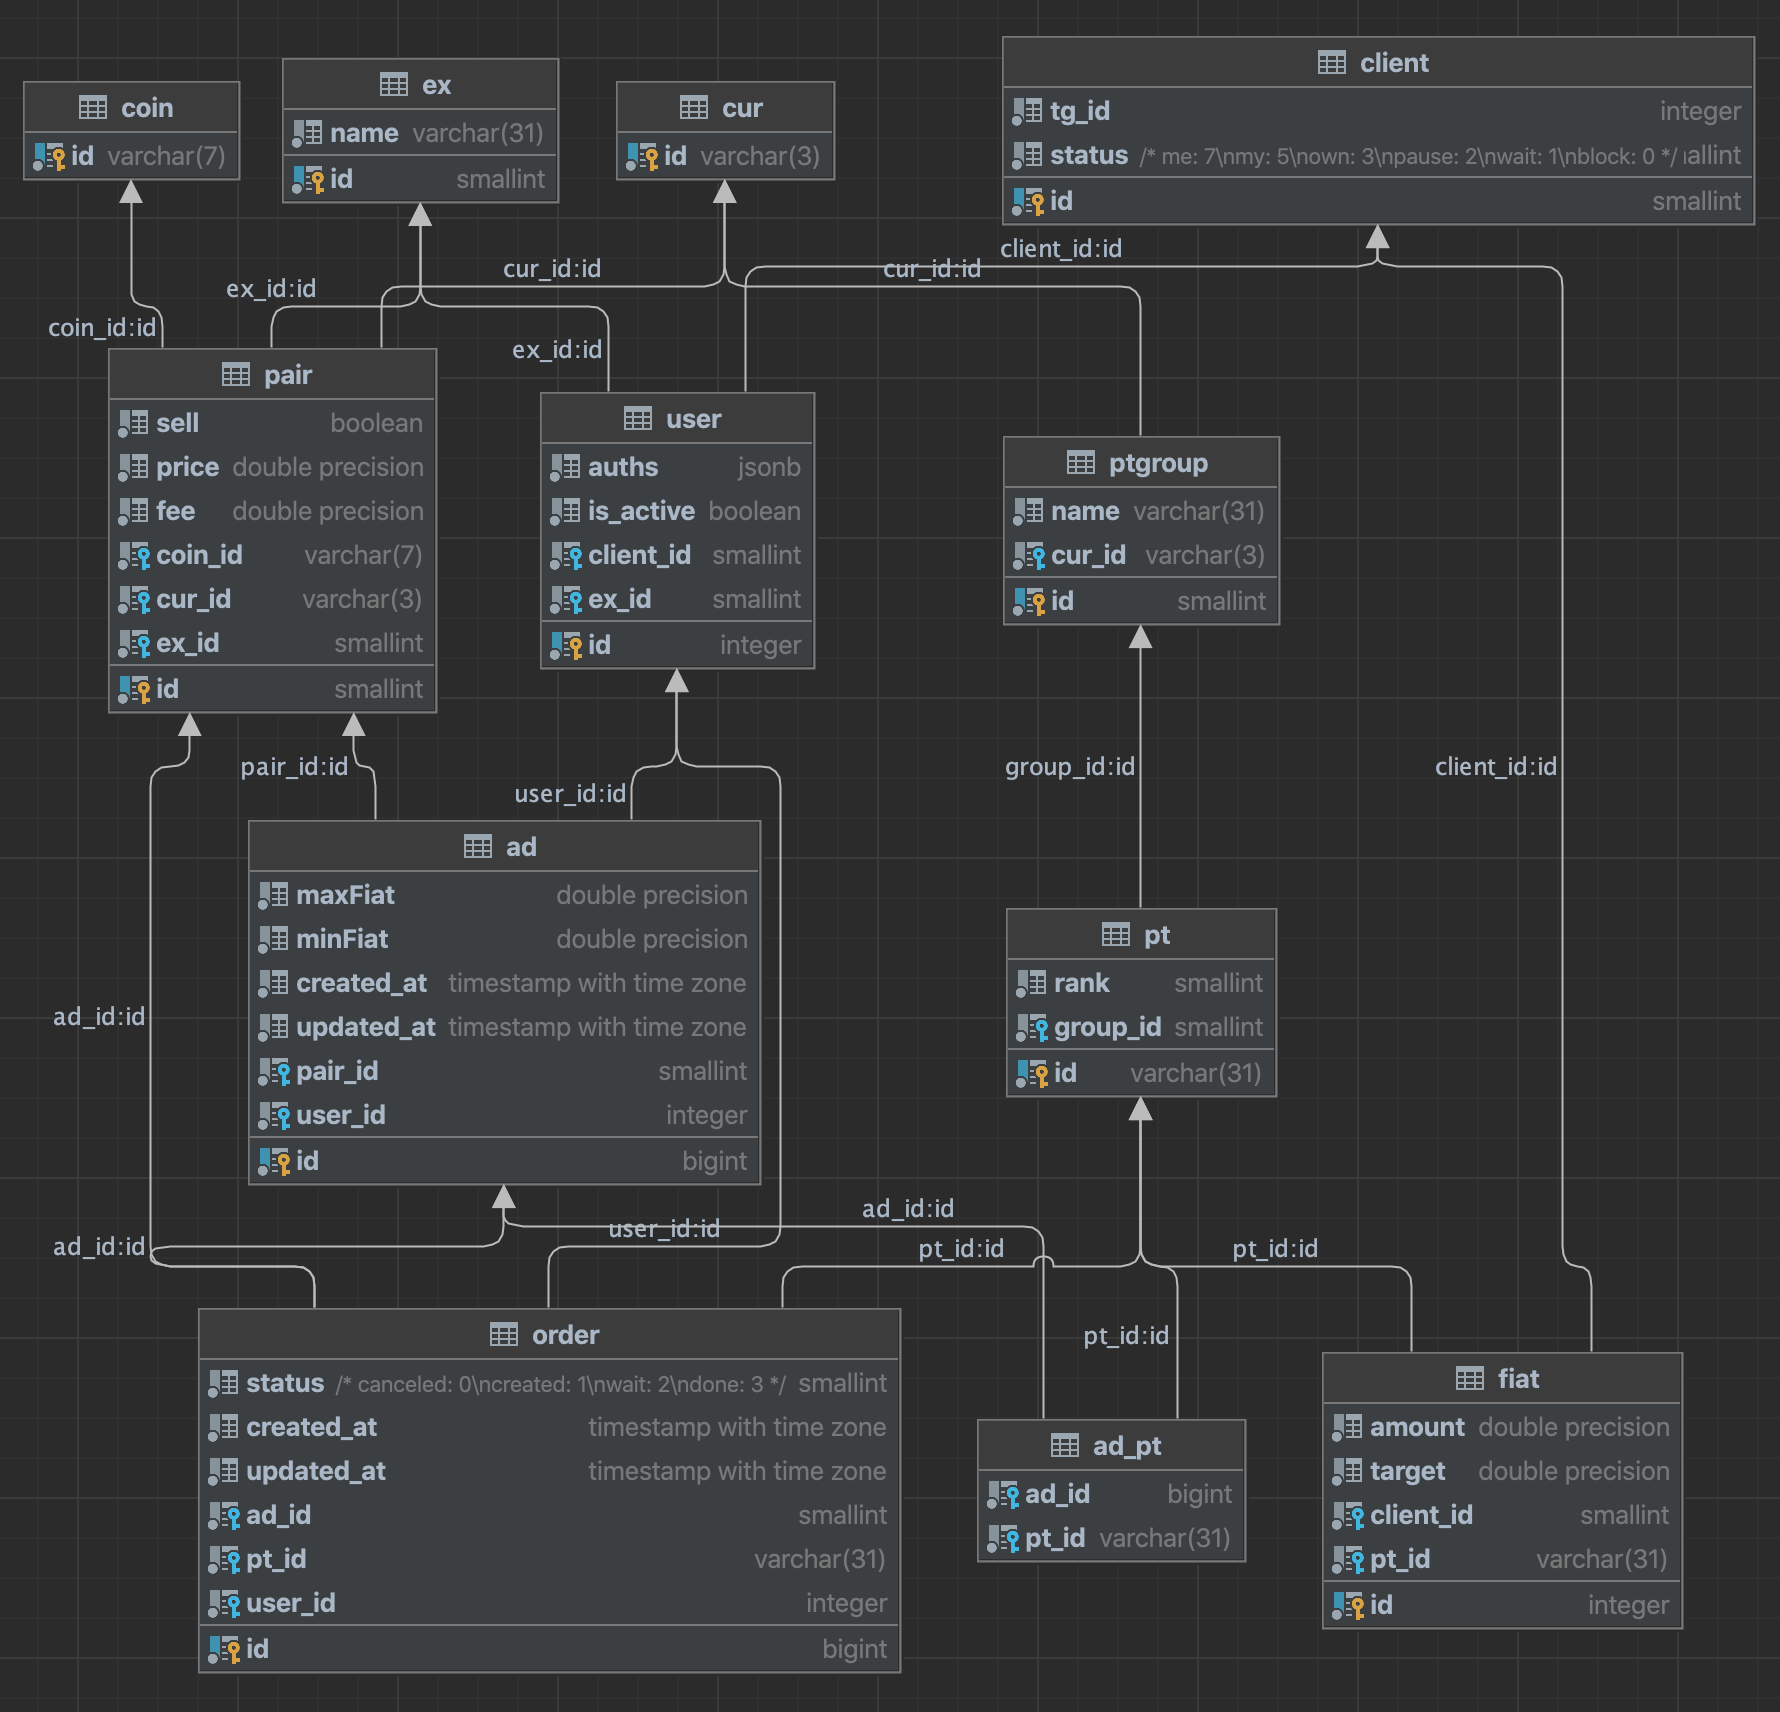
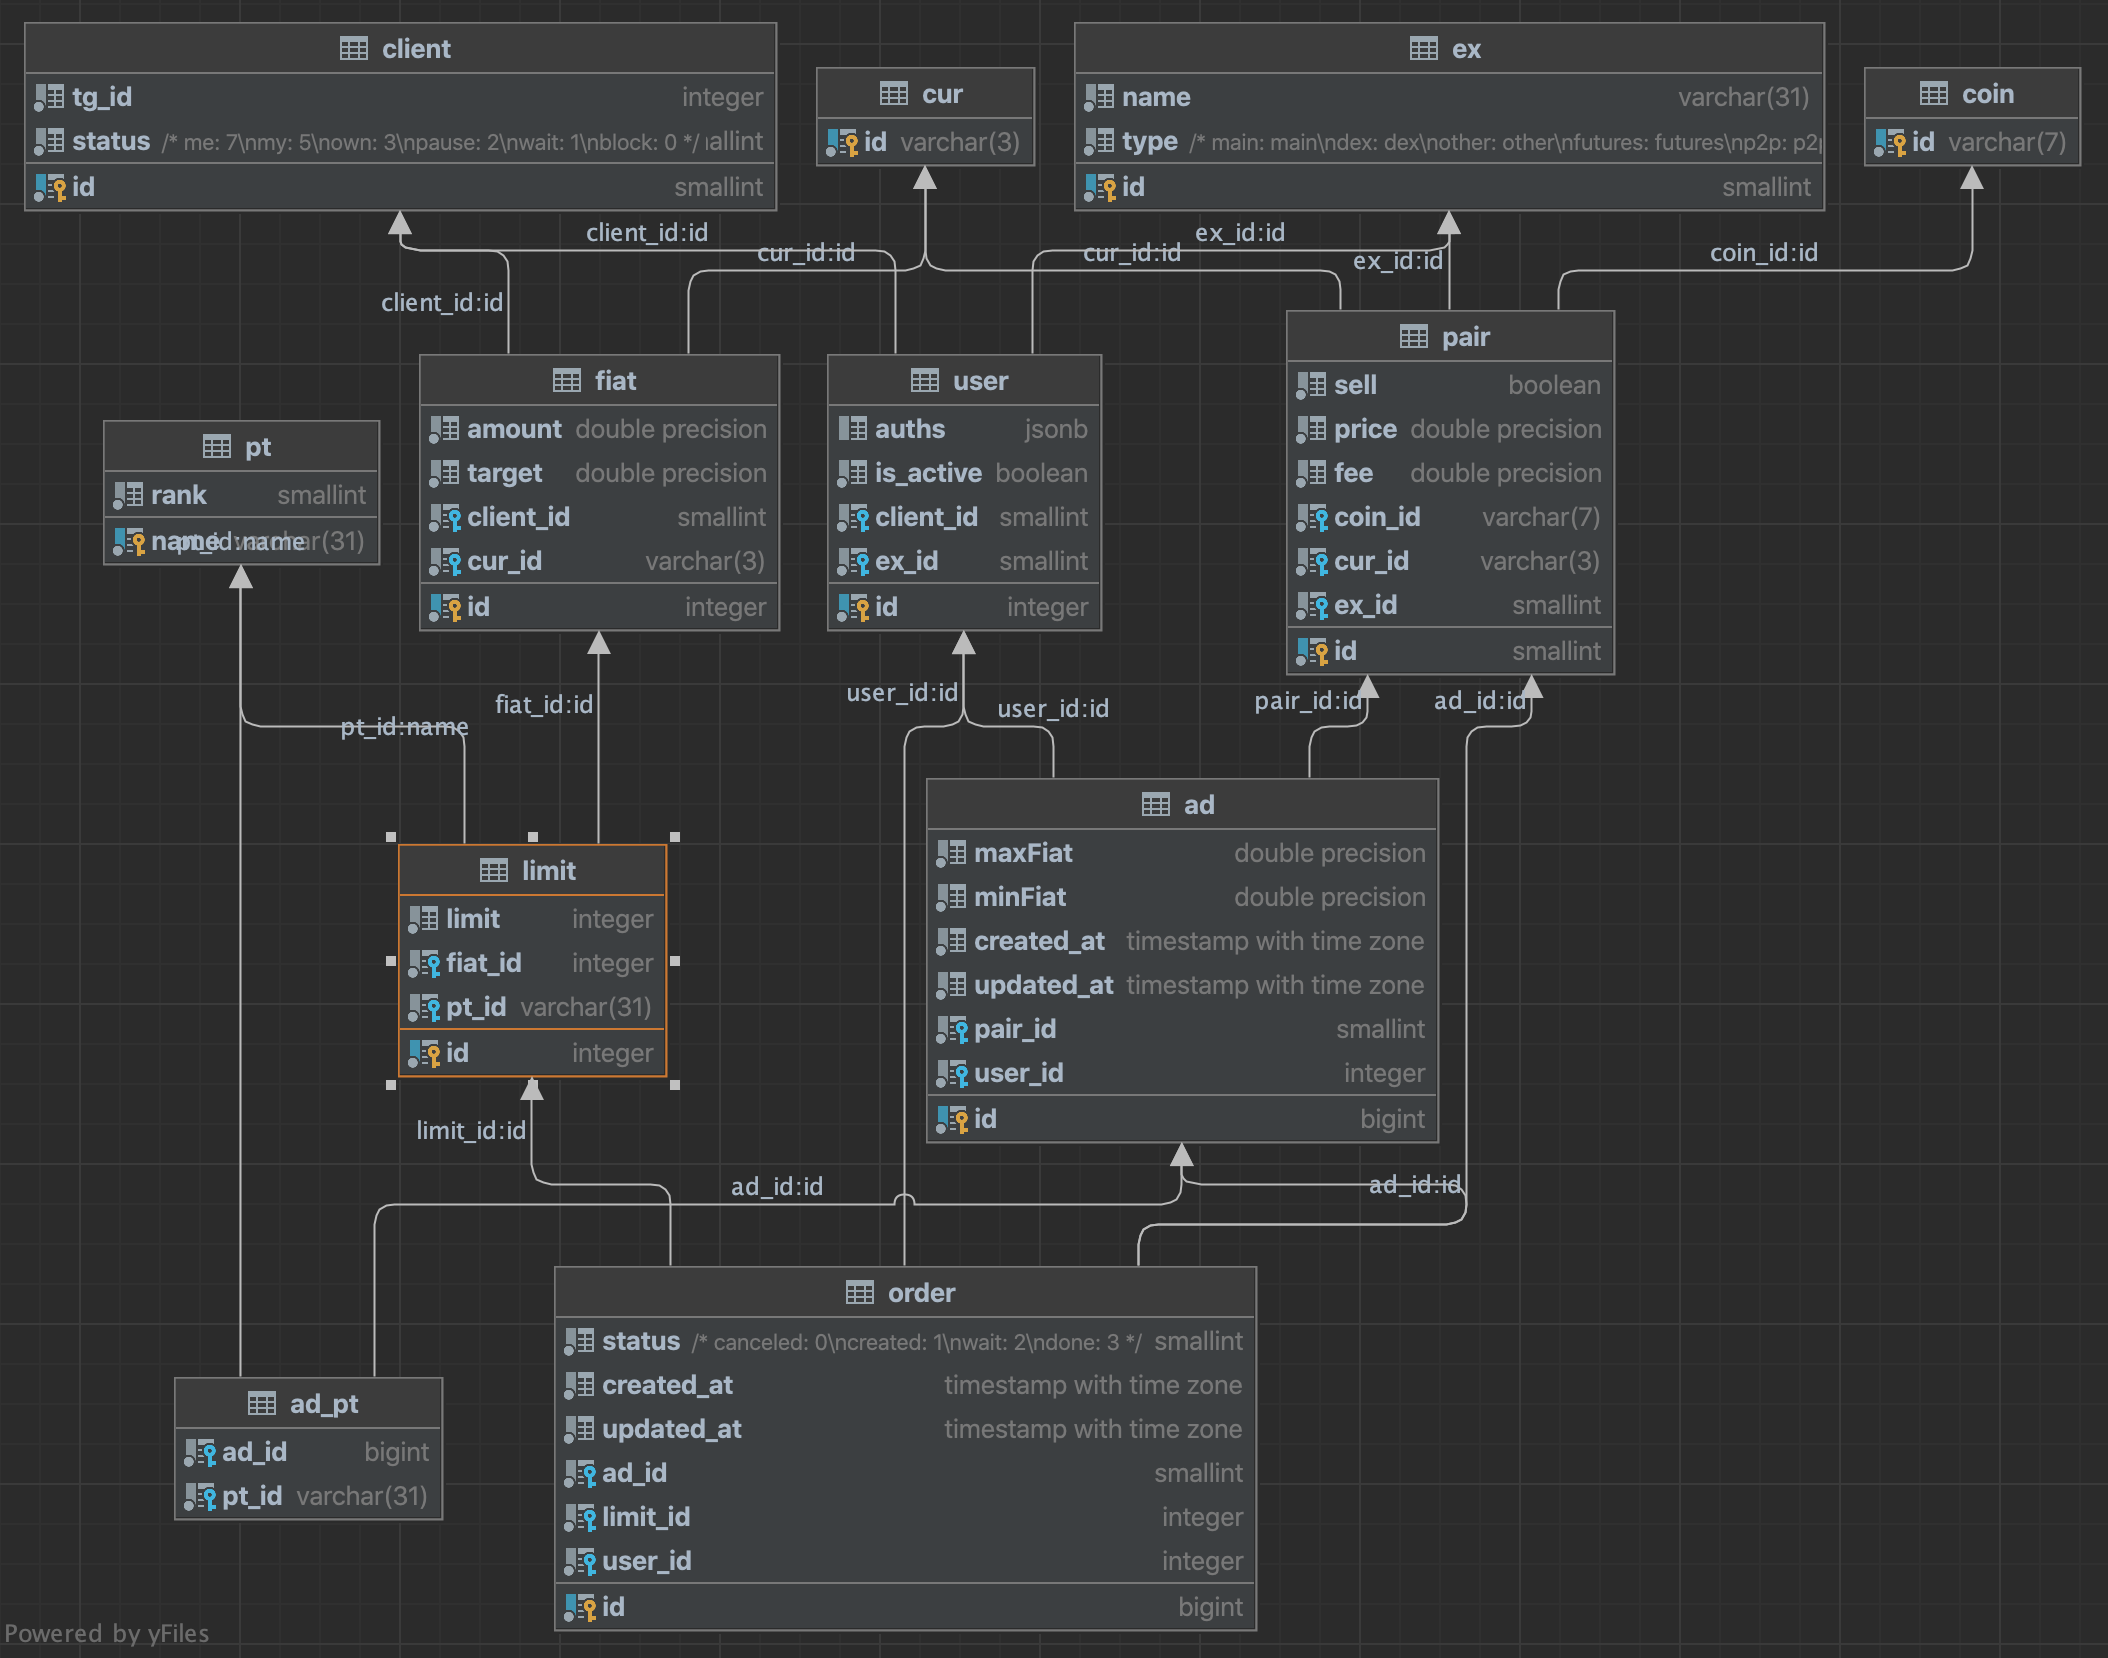
migrates

diff --git a/models.py b/models.py
@@ -1,4 +1,4 @@
-from enum import IntEnum  # , Enum
+from enum import IntEnum, Enum
 
 from tortoise import Model, fields
 
@@ -19,6 +19,14 @@ class OrderStatus(IntEnum):
     done = 3
 
 
+class ExType(Enum):
+    main = "main"
+    dex = "dex"
+    other = "other"
+    futures = "futures"
+    p2p = "p2p"
+
+
 class Cur(Model):
     id: str = fields.CharField(3, pk=True)
 
@@ -30,6 +38,7 @@ class Coin(Model):
 class Ex(Model):
     id: int = fields.SmallIntField(pk=True)
     name: str = fields.CharField(31)
+    type: ExType = fields.CharEnumField(ExType)
 
 
 class Pair(Model):
@@ -54,9 +63,9 @@ class Client(Model):
 class User(Model):
     id: int = fields.IntField(pk=True)
     ex: fields.ForeignKeyRelation[Ex] = fields.ForeignKeyField("models.Ex", related_name="users")
-    auths: {} = fields.JSONField()
+    auths: {} = fields.JSONField(null=True)  # todo: think about it - where move this attr in
     client: fields.ForeignKeyNullableRelation[Client] = fields.ForeignKeyField("models.Client", related_name="users")
-    is_active: bool = fields.BooleanField()
+    is_active: bool = fields.BooleanField(default=True)
 
 
 class Ad(Model):
@@ -70,31 +79,32 @@ class Ad(Model):
     updated_at = fields.DatetimeField(auto_now=True)
 
 
-class PtGroup(Model):
-    id: int = fields.SmallIntField(pk=True)
-    name: str = fields.CharField(31)
-    cur: fields.ForeignKeyRelation[Cur] = fields.ForeignKeyField("models.Cur", related_name="pt_groups")
-
-
 class Pt(Model):
-    id: str = fields.CharField(31, pk=True)
-    group: fields.ForeignKeyRelation[PtGroup] = fields.ForeignKeyField("models.PtGroup", related_name="pts")
+    name: str = fields.CharField(31, pk=True)
     rank = fields.SmallIntField()
     ads: fields.ManyToManyRelation[Ad]
+    fiats: fields.ManyToManyRelation["Fiat"]
 
 
 class Fiat(Model):
     id: int = fields.IntField(pk=True)
+    pt: fields.ManyToManyRelation[Pt] = fields.ManyToManyField("models.Pt", "limit", related_name="fiats")
+    cur: fields.ForeignKeyRelation[Cur] = fields.ForeignKeyField("models.Cur", related_name="pts")
     client: fields.ForeignKeyRelation[Client] = fields.ForeignKeyField("models.Client", "fiats")
-    pt: fields.ForeignKeyRelation[Pt] = fields.ForeignKeyField("models.Pt", "fiats")
     amount: float = fields.FloatField()
     target: float = fields.FloatField()
+
+
+class Limit(Model):
+    fiat: fields.ForeignKeyRelation[Fiat] = fields.ForeignKeyField("models.Fiat", related_name="limits")
+    pt: fields.ForeignKeyRelation[Pt] = fields.ForeignKeyField("models.Pt", related_name="limits")
+    limit: int = fields.IntField()
 
 
 class Order(Model):
     id: int = fields.BigIntField(pk=True)
     ad: fields.ForeignKeyRelation[Ad] = fields.ForeignKeyField("models.Pair", related_name="orders")
-    pt: fields.ForeignKeyRelation[Pt] = fields.ForeignKeyField("models.Pt", related_name="orders")
+    limit: fields.ForeignKeyRelation[Limit] = fields.ForeignKeyField("models.Limit", related_name="orders")
     user: fields.ForeignKeyRelation = fields.ForeignKeyField("models.User", "orders")
     status: OrderStatus = fields.IntEnumField(OrderStatus)
     created_at = fields.DatetimeField(auto_now_add=True)

diff --git a/seed.py b/seed.py
@@ -1,0 +1,86 @@
+from tortoise import run_async, Tortoise
+
+from loader import orm_params
+from models import Pt, Cur, Coin, Ex, ExType
+
+
+async def seed():
+    await Tortoise.init(**orm_params)
+    await Tortoise.generate_schemas()
+
+    #
+    await Coin.create(id="USDT")
+    await Coin.create(id="BTC")
+    await Coin.create(id="ETH")
+    await Coin.create(id="BNB")
+    await Coin.create(id="BUSD")
+    # await Coin.create(id="RUB")
+
+    #
+    await Ex.create(name="bc2c", type=ExType.p2p)
+
+    ##########
+
+    r = await Cur.create(id="RUB")
+    u = await Cur.create(id="USD")
+    e = await Cur.create(id="EUR")
+    t = await Cur.create(id="TRY")
+
+    #
+    await Pt.create(name="CashInPerson", rank=0)  # blocked in Russia
+    await Pt.create(name="BANK", rank=1)  # blocked in Russia
+    #
+    await Pt.create(name="Advcash", rank=-2)
+    await Pt.create(name="Payeer", rank=-3)
+    #
+    # # # Russia
+    await Pt.create(name="TinkoffNew", rank=4)
+    await Pt.create(name="RosBankNew", rank=3)
+    await Pt.create(name="PostBankRussia", rank=2)
+    await Pt.create(name="UralsibBank", rank=2)
+    await Pt.create(name="RaiffeisenBankRussia", rank=2)
+    await Pt.create(name="BCSBank", rank=2)
+    await Pt.create(name="HomeCreditBank", rank=2)
+    await Pt.create(name="VostochnyBank", rank=2)
+    await Pt.create(name="RussianStandardBank", rank=2)
+    await Pt.create(name="ABank", rank=2)  # blocked in Russia
+    await Pt.create(name="MTSBank", rank=2)
+    await Pt.create(name="SpecificBank", rank=2)
+    #
+    await Pt.create(name="YandexMoneyNew", rank=5)
+    await Pt.create(name="QIWI", rank=6)
+    #
+    await Pt.create(name="RUBfiatbalance", rank=-1)
+    #
+    await Pt.create(name="BanktransferTurkey", rank=3)
+    await Pt.create(name="alBaraka", rank=3)
+    await Pt.create(name="Akbank", rank=3)
+    await Pt.create(name="DenizBank", rank=4)
+    await Pt.create(name="Garanti", rank=3)
+    await Pt.create(name="HALKBANK", rank=3)
+    await Pt.create(name="KuveytTurk", rank=3)
+    await Pt.create(name="VakifBank", rank=3)
+    await Pt.create(name="Ziraat", rank=3)
+    #
+    await Pt.create(name="KoronaPay", rank=2)  # blocked in Russia
+
+    # todo: Fiats upsert..
+    # # And then Limits seed
+    # rus_banks = await PtGroup(name="rus banks", cur=r)
+    # ym = await PtGroup(name="ym", cur=r)
+    # qiwi = await PtGroup(name="qiwi", cur=r)
+    # b_fiat_rub = await PtGroup(name="b_fiat_rub", cur=r)
+    # adv_rub = await PtGroup(name="adv_rub", cur=r)
+    # adv_usd = await PtGroup(name="adv_usd", cur=u)
+    # adv_eur = await PtGroup(name="adv_eur", cur=e)
+    # payer_rub = await PtGroup(name="payer_rub", cur=r)
+    # payer_usd = await PtGroup(name="payer_usd", cur=u)
+    # payer_eur = await PtGroup(name="payer_eur", cur=e)
+    # korona_rub = await PtGroup(name="korona_rub", cur=r)
+    # korona_usd = await PtGroup(name="korona_usd", cur=u)
+    # korona_eur = await PtGroup(name="korona_eur", cur=e)
+    # korona_try = await PtGroup(name="korona_try", cur=t)
+    # cash_bank = await PtGroup(name="cash_bank", cur=t)
+
+if __name__ == "__main__":
+    run_async(seed())

diff --git a/binance_client.py b/binance_client.py
@@ -1,0 +1,69 @@
+import aiohttp
+
+gap = 0.01
+URL_SRC = 'https://c2c.binance.com/bapi/c2c/v2/friendly/c2c/adv/search'
+prgrs = '/', '-', '\\', '|'
+
+bnks = 'banks', 'ym', 'qiwi'
+
+
+async def breq(path: str, user: dict = None, data=None, is_post=True):
+    headers = {
+        'User-Agent': 'Mozilla/5.0 (Macintosh; Intel Mac OS X 10_15_7) AppleWebKit/537.36 (KHTML, like Gecko) Chrome/103.0.5060.134 Safari/537.36',
+        'Content-Type': 'application/json',
+        'clienttype': 'web',
+    }
+    if user:
+        headers.update({
+            'csrftoken': user['tok'],
+            'cookie': f'p20t=web.{user["key"]}.{user["cook"]}',
+        })
+    async with aiohttp.ClientSession() as session:
+        reqf = session.post if is_post else session.get
+        async with reqf(('' if path.startswith('https://') else 'https://c2c.binance.com/') + path, headers=headers, json=data) as response:
+            # if response.status == 401:
+            #     await hc(user)
+            return (await response.json()) or response.status
+
+
+async def ping(user: dict):
+    res = await breq('bapi/accounts/v1/public/authcenter/auth', user)
+    return res['success']
+
+
+# async def hc(user: {}):
+#     if not await ping(user):
+#         msg = 'You need to log in binance.com'
+#         await bot.send_message(user['tg_id'], msg)
+#         users_db.update({'ran': False}, user['key'])
+
+
+async def get_pts(user: dict):  # payment methods
+    res = await breq('bapi/c2c/v2/private/c2c/pay-method/user-paymethods', user, {})
+    return res['data']
+
+
+async def act_orders(user: dict):  # payment methods
+    res = await breq('bapi/c2c/v2/private/c2c/order-match/order-list', user,
+                     {"page": 1, "rows": 10, "orderStatusList": [0, 1, 2, 3, 5]})
+    return res['data']
+
+
+async def balance(user: dict, spot0fond1: 0 | 1 = 1):  # payment methods
+    res = await breq(
+        'https://www.binance.com/bapi/asset/v2/private/asset-service/wallet/balance?needBalanceDetail=true', user,
+        is_post=False)
+    return res['data'][spot0fond1]['assetBalances'] if res.get('data') else None
+
+
+async def get_ads(asset: str, cur: str, sell: int = 0, pts: [str] = None):
+    payload = {"page": 1,
+               "rows": 2,
+               "payTypes": pts,
+               "asset": asset,
+               "tradeType": "SELL" if sell else "BUY",
+               "fiat": cur,
+               # "transAmount": amount
+               }
+    resp = await breq(URL_SRC, None, payload)
+    return resp.get('data') or resp

diff --git a/cycle.py b/cycle.py
@@ -1,0 +1,37 @@
+from asyncio import run
+
+
+async def tick():
+    for cur in select(c for c in Cur if c.name == 'RUB')[:].to_list():
+        for isSell in (0, 1):
+            pts = cur.pts.select(lambda pt: pt.rank > 0)[:]  # no pt filter for sales
+            for coin in cur.coins.name:
+                res = await get_ads(coin, cur.name, isSell, None if isSell else [pt.name for pt in pts])
+                ad0 = Ads(res[0]['adv'], pts, 'bc2c').__dict__
+                unq = {k: v for k, v in ad0.items() if k in ['coin', 'cur', 'is_sell', 'ex']}
+
+                if ad0['id'] in ids:
+                    ad0['updated_at'] = datetime.now()
+                    Ad.get(**unq).set(**ad0)
+                else:
+                    if ba := Ad.get(**unq):
+                        ba.delete()
+                    Ad(**ad0)
+
+                key = f"{coin}{cur.name}{('f', 't')[isSell]}"
+                if last_price.get(key) != ad0['price']:
+                    p = Prices(res[0]['adv'], ad0['pts'], 'bc2c')
+                    Price(**p.__dict__)
+
+                ads[key] = [{"x": time()*1000, "y": ad0['price']}]  # ad0['id'],
+
+
+
+    return ads
+
+
+if __name__ == "__main__":
+    try:
+        run(tick())
+    except KeyboardInterrupt:
+        print('Stopped.')

diff --git a/main.py b/main.py
@@ -2,6 +2,7 @@
 from aiohttp import web
 from tortoise.contrib.aiohttp import register_tortoise
 
+from loader import orm_params
 from models import User
 
 # logging.basicConfig(level=logging.DEBUG)
@@ -18,16 +19,12 @@ async def add_user(request):
 
 
 app = web.Application()
+register_tortoise(app, **orm_params)
+
 app.add_routes([
     web.get("/", list_all),
     web.post("/user", add_user)
 ])
-register_tortoise(
-    app,
-    db_url="postgres://artemiev:@/antifragility",
-    modules={"models": ["models"]},
-    generate_schemas=True
-)
 
 if __name__ == "__main__":
     web.run_app(app)

diff --git a/loader.py b/loader.py
@@ -1,0 +1,4 @@
+orm_params = {
+    "db_url": "postgres://artemiev:@/antifragility",
+    "modules": {"models": ["models"]},
+}
